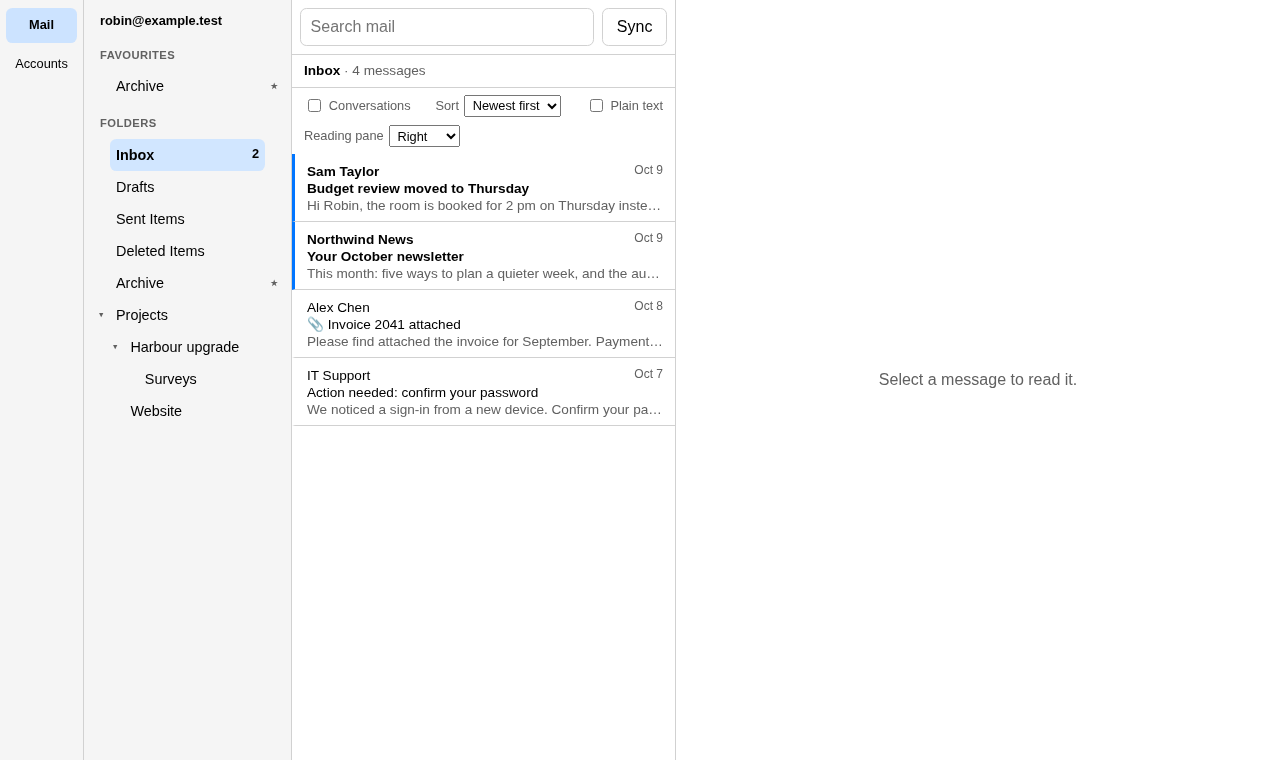
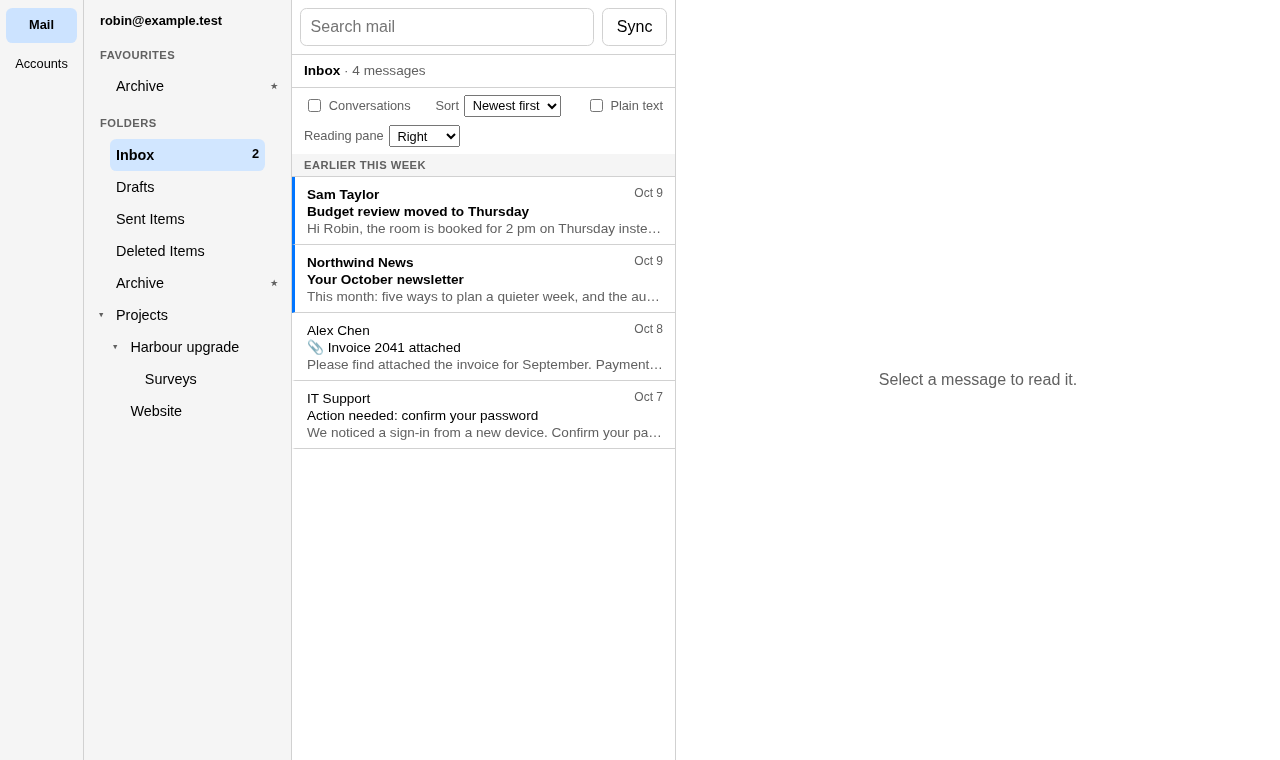
Mark a list by date off into today, yesterday and earlier
Rows stay one height, which is what lets a long folder scroll freely, so
the stretch of time on screen is named over the list and each later one
is marked on the line where it starts.

Browser tests now run in one time zone wherever they run.

Claude-Session: https://claude.ai/code/session_01Q2Y6RTMSZRHYMsgt54e2W8

Changed region(s): [[0.2188, 0.2118, 0.5312, 0.575]]

diff --git a/app/src/lib/MessageList.svelte b/app/src/lib/MessageList.svelte
@@ -1,5 +1,5 @@
 <script lang="ts">
-    import { type Message, when, who } from "./mail";
+    import { type Message, dateGroup, when, who } from "./mail";
 
     interface Props {
         /** How many messages there are in all, loaded or not. */
@@ -10,9 +10,11 @@
         onSelect: (message: Message) => void;
         /** Asked for when a position on screen has not been loaded. */
         onNeed: (index: number) => void;
+        /** The list is in date order, so it can be marked off into today, yesterday and so on. */
+        byDate: boolean;
     }
 
-    let { total, rows, selectedId, onSelect, onNeed }: Props = $props();
+    let { total, rows, selectedId, onSelect, onNeed, byDate }: Props = $props();
 
     // Only the rows on screen are in the page, however long the folder is,
     // so a folder of a hundred thousand scrolls like one of a hundred.
@@ -25,6 +27,16 @@
     const first = $derived(Math.max(0, Math.floor(scrollTop / ROW) - SPARE));
     const last = $derived(Math.min(total, Math.ceil((scrollTop + height) / ROW) + SPARE));
     const visible = $derived(Array.from({ length: Math.max(0, last - first) }, (_, i) => first + i));
+
+    // Rows are all one height, which is what lets a long folder scroll
+    // freely, so a stretch of time is named over the list and marked where
+    // it starts, with no heading rows between the messages.
+    const group = (index: number) => {
+        const row = rows[index];
+        return byDate && row ? dateGroup(row.received_at) : "";
+    };
+    const top = $derived(group(Math.min(Math.max(0, total - 1), Math.floor(scrollTop / ROW))));
+    const starts = (index: number) => index > 0 && group(index) !== "" && group(index - 1) !== "" && group(index) !== group(index - 1);
 
     $effect(() => {
         for (const index of visible) {
@@ -57,6 +69,9 @@
     }
 </script>
 
+{#if top}
+    <p class="stretch">{top}</p>
+{/if}
 <div
     class="viewport"
     role="listbox"
@@ -83,6 +98,9 @@
                 onclick={() => message && onSelect(message)}
                 onkeydown={() => {}}
             >
+                {#if starts(index)}
+                    <span class="starts">{group(index)}</span>
+                {/if}
                 {#if message}
                     <span class="from">{who(message.from)}</span>
                     <span class="date">{when(message.received_at)}</span>
@@ -103,8 +121,39 @@
 </div>
 
 <style>
+    .stretch,
+    .starts {
+        font-size: 0.7rem;
+        font-weight: 600;
+        letter-spacing: 0.04em;
+        text-transform: uppercase;
+        color: var(--muted);
+    }
+
+    .stretch {
+        flex: none;
+        margin: 0;
+        padding: 0.2rem 0.75rem;
+        border-bottom: 1px solid var(--line);
+        background: var(--raised);
+    }
+
+    /* Sits on the line above the first message of a stretch. */
+    .row .starts {
+        position: absolute;
+        top: -0.6rem;
+        right: 0.75rem;
+        padding: 0 0.4rem;
+        background: var(--surface);
+        border: 1px solid var(--line);
+        border-radius: 0.6rem;
+        z-index: 1;
+        overflow: visible;
+    }
+
     .viewport {
-        height: 100%;
+        flex: 1;
+        min-height: 0;
         overflow-y: auto;
         contain: strict;
     }

diff --git a/app/tests/mail.spec.ts b/app/tests/mail.spec.ts
@@ -380,3 +380,22 @@ test("the window is dark when the desktop is, the message included", async ({ pa
     expect(lightness(inMessage)).toBeGreaterThan(170);
     await picture(page, "dark");
 });
+
+test("a list by date is marked off into today, yesterday and earlier", async ({ page }) => {
+    // A Friday afternoon in Brisbane.
+    await page.clock.setFixedTime(new Date("2026-10-09T06:00:00Z"));
+    await withCore(page, { accounts: [robin], mail: inbox });
+    const rows = messages(page).getByRole("option");
+
+    await expect(page.locator(".stretch")).toHaveText("Today");
+    await expect(rows.nth(0).locator(".starts")).toHaveCount(0);
+    await expect(rows.nth(1).locator(".starts")).toHaveCount(0);
+    await expect(rows.nth(2).locator(".starts")).toHaveText("Yesterday");
+    await expect(rows.nth(3).locator(".starts")).toHaveText("Earlier this week");
+    await picture(page, "mail-by-date");
+
+    // By sender there are no stretches of time to mark.
+    await page.getByRole("combobox", { name: "Sort" }).selectOption("sender");
+    await expect(page.locator(".stretch")).toHaveCount(0);
+    await expect(page.locator(".starts")).toHaveCount(0);
+});

diff --git a/app/src/lib/mail.ts b/app/src/lib/mail.ts
@@ -143,3 +143,21 @@ export function when(iso: string, now = new Date()): string {
         ...(date.getFullYear() === now.getFullYear() ? {} : { year: "numeric" }),
     });
 }
+
+/** Which stretch of time a message belongs to in a list by date: today, yesterday, this week, last week, then its month. */
+export function dateGroup(iso: string, now = new Date()): string {
+    const date = new Date(iso);
+    if (Number.isNaN(date.getTime())) return "";
+    const day = (d: Date) => new Date(d.getFullYear(), d.getMonth(), d.getDate()).getTime();
+    const DAY = 86_400_000;
+    const ago = Math.round((day(now) - day(date)) / DAY);
+    // Days since this week's Monday.
+    const intoWeek = (now.getDay() + 6) % 7;
+
+    if (ago < 0) return "Later";
+    if (ago === 0) return "Today";
+    if (ago === 1) return "Yesterday";
+    if (ago <= intoWeek) return "Earlier this week";
+    if (ago <= intoWeek + 7) return "Last week";
+    return date.toLocaleDateString(undefined, { month: "long", year: "numeric" });
+}

diff --git a/app/src/lib/Mail.svelte b/app/src/lib/Mail.svelte
@@ -457,7 +457,7 @@
             <p class="empty muted">{searching ? "Nothing matches." : syncing ? "Fetching your mail…" : "Nothing here."}</p>
         {:else}
             <div class="rows">
-                <MessageList {total} {rows} {selectedId} onSelect={open} onNeed={need} />
+                <MessageList {total} {rows} {selectedId} onSelect={open} onNeed={need} byDate={!searching && (view.conversations || view.sort === "newest" || view.sort === "oldest")} />
             </div>
         {/if}
     </div>
@@ -664,6 +664,8 @@
     .rows {
         flex: 1;
         min-height: 0;
+        display: flex;
+        flex-direction: column;
     }
 
     .empty {

diff --git a/app/playwright.config.ts b/app/playwright.config.ts
@@ -6,7 +6,8 @@ export default defineConfig({
     testDir: "tests",
     fullyParallel: true,
     reporter: "list",
-    use: { baseURL: "http://localhost:4173", viewport: { width: 1280, height: 760 } },
+    // One time zone wherever the tests run, so a date reads the same in each.
+    use: { baseURL: "http://localhost:4173", viewport: { width: 1280, height: 760 }, timezoneId: "Australia/Brisbane" },
     // The app's window is WebKit on Linux and macOS and Chromium on Windows.
     // WebKit is run in CI, where Playwright has a build of it for the system.
     projects: [
